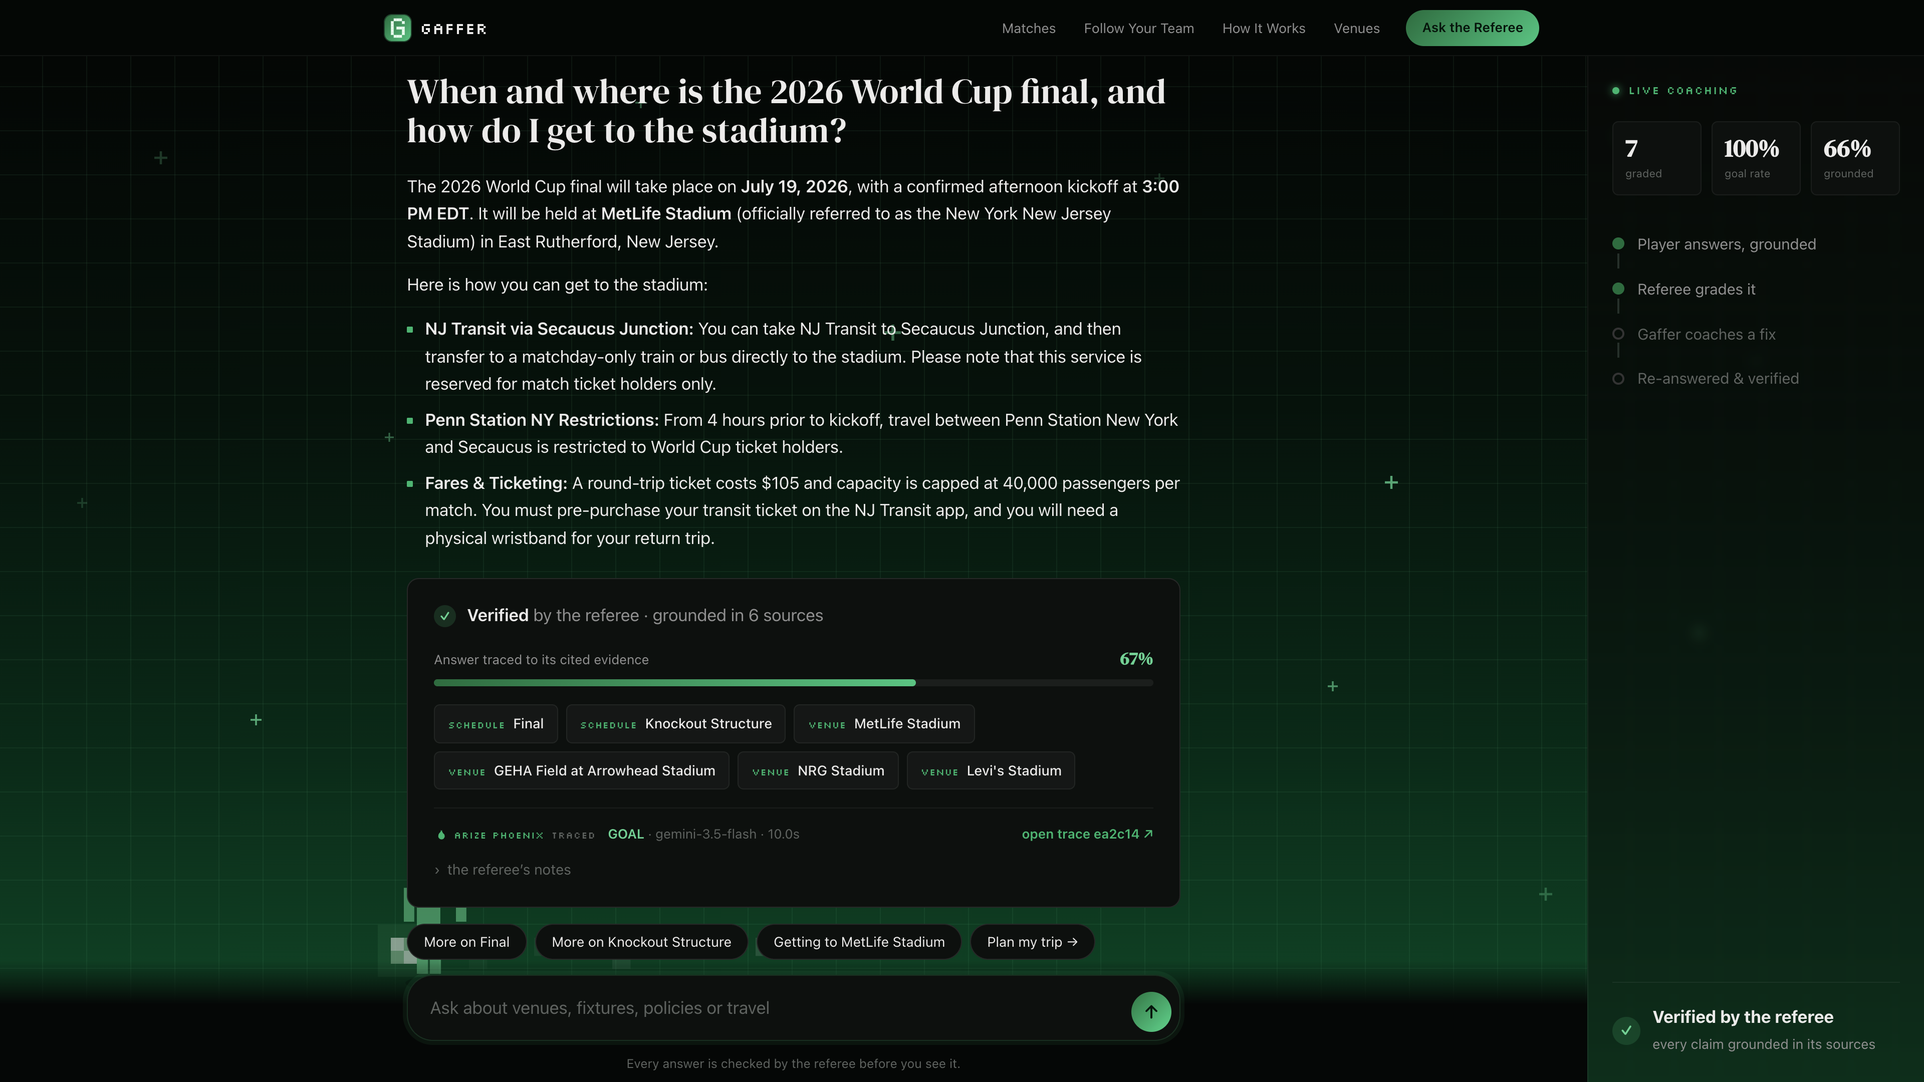
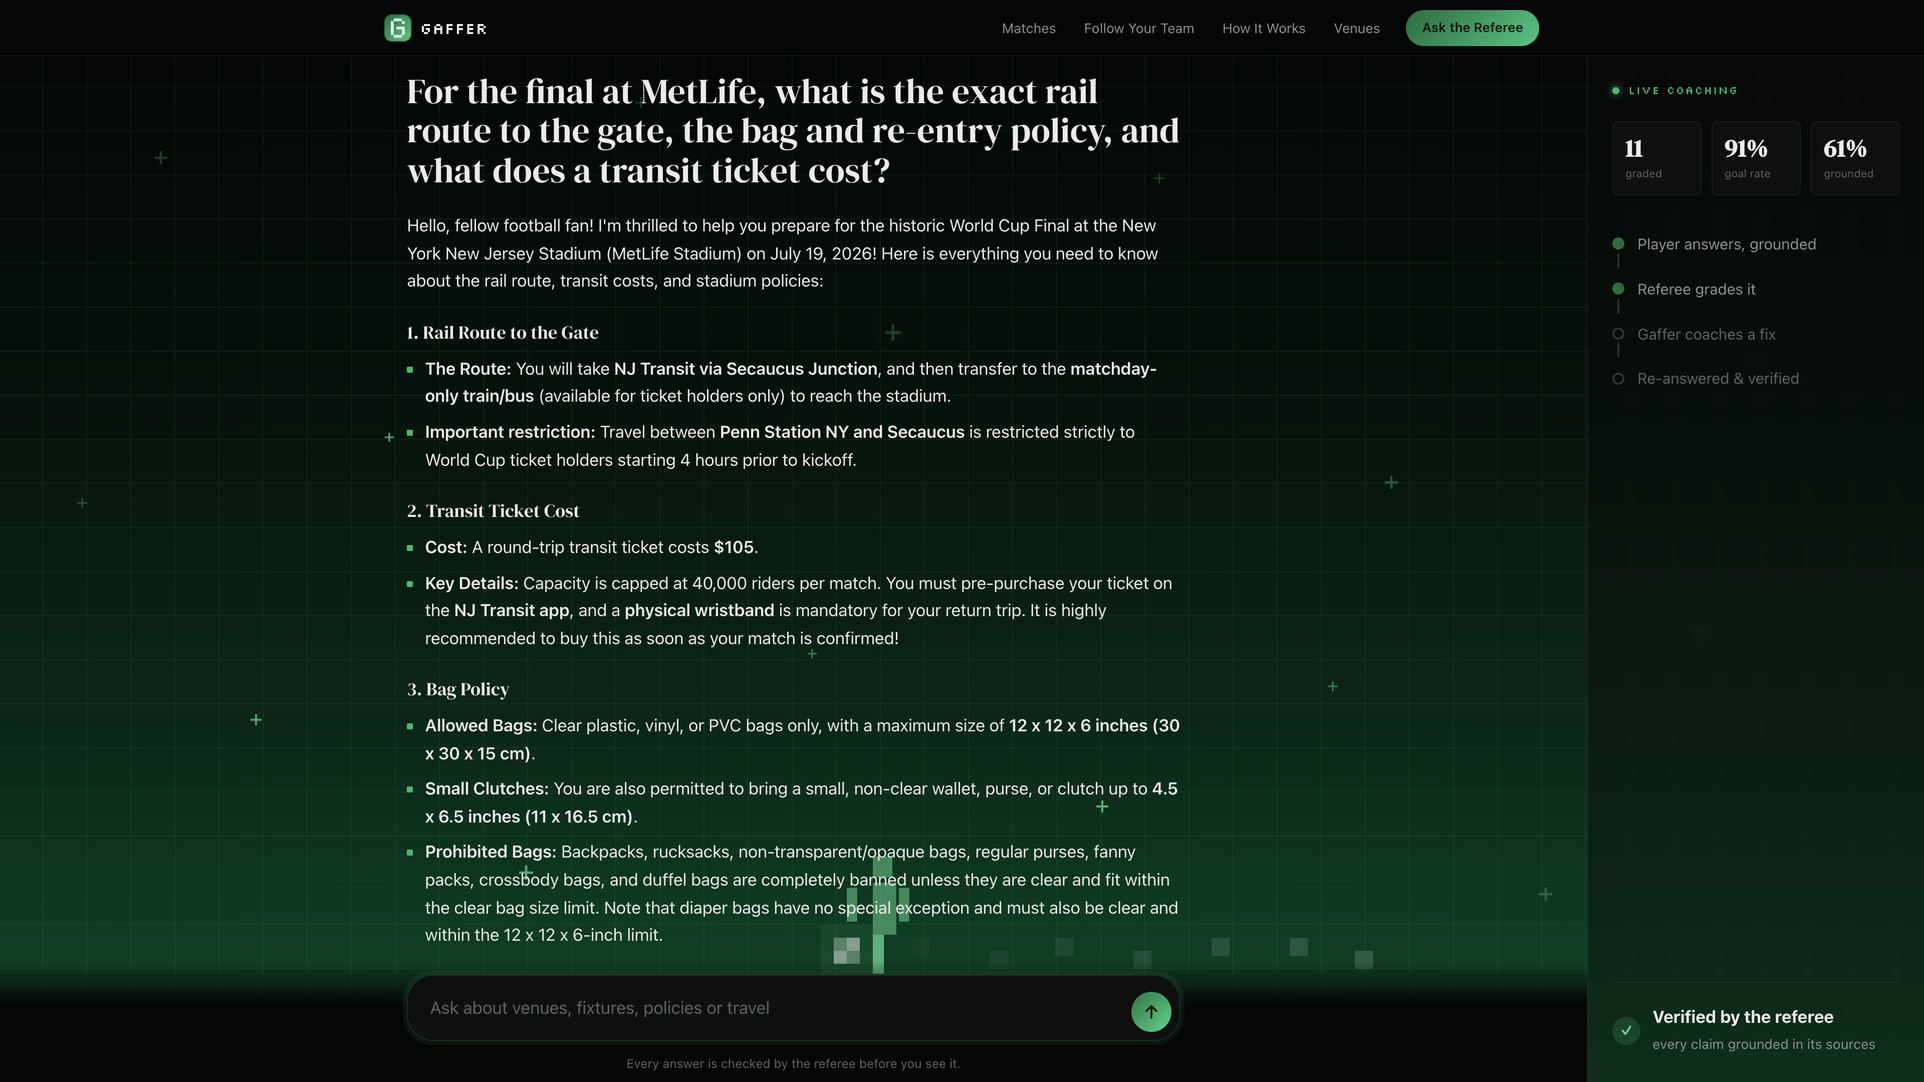
Make README sexy: hero, badges, real screenshots, sharper copy
Rewrote README around the real differentiation (grounds -> referees -> coaches
itself, live in Arize Phoenix), with a centered hero, shields badges, and the
actual captured screenshots (grounded answer, the self-coaching loop, the trip
planner). Re-captured the ask scene with a harder, operational question. Tightened
the Devpost tagline to <200 chars.

diff --git a/media/assemble.py b/media/assemble.py
@@ -1,0 +1,115 @@
+#!/usr/bin/env python3
+"""Assemble the GAFFER demo: static frames + smooth cross-dissolves (no shake),
+Polly voiceover, burned caption PNGs. Computes xfade offsets so audio + captions
+stay in sync on the dissolve timeline."""
+import os, subprocess
+FF = "/opt/homebrew/bin/ffmpeg"; FP = "/opt/homebrew/bin/ffprobe"
+ROOT = "/Users/dhruvjain/gaffer/media"
+SH, AU, BU, CA = f"{ROOT}/shots", f"{ROOT}/audio", f"{ROOT}/build", f"{ROOT}/build/caps"
+os.makedirs(BU, exist_ok=True)
+FPS = 30; PAD = 0.55; T = 0.6   # hold tail per scene, cross-dissolve length
+
+def run(args):
+    r = subprocess.run(args, capture_output=True, text=True)
+    if r.returncode != 0:
+        print("FFMPEG ERR:", " ".join(args)[:200]); print(r.stderr[-1500:]); raise SystemExit(1)
+
+# narration durations
+d = {}
+for ln in open(f"{AU}/durations.txt"):
+    i, v = ln.split(); d[int(i)] = float(v)
+
+# segment list: (still, narration-scene). scene 8 spans two stills (browse+plan).
+SEGS = [
+    ("home", 1), ("home", 2), ("ask", 3), ("trace", 4), ("loop_trace", 5),
+    ("loop_diff", 6), ("loop_scrim", 7), ("matches_browse", 8), ("matches_plan", 8),
+    ("home", 9),
+]
+# hold per segment
+hold = []
+for still, sc in SEGS:
+    if sc == 8:
+        hold.append((d[8] + PAD) / 2.0)   # split scene-8 audio across its two stills
+    else:
+        hold.append(d[sc] + PAD)
+
+# 1) build static segments (fast)
+print("building static segments...")
+for k, ((still, sc), h) in enumerate(zip(SEGS, hold), 1):
+    out = f"{BU}/seg_{k:02d}.mp4"
+    run([FF, "-y", "-loglevel", "error", "-loop", "1", "-t", f"{h:.3f}",
+         "-i", f"{SH}/{still}.png", "-r", str(FPS),
+         "-vf", "scale=1920:1080:flags=lanczos,format=yuv420p",
+         "-c:v", "libx264", "-preset", "veryfast", "-crf", "20", "-pix_fmt", "yuv420p", out])
+
+# 2) xfade chain. O[k] = start time of seg k's dissolve on the growing chain.
+O = [0.0]
+for k in range(1, len(SEGS)):
+    O.append(O[k-1] + hold[k-1] - T)
+V = O[-1] + hold[-1]
+print(f"total V = {V:.2f}s")
+
+inputs = []
+for k in range(len(SEGS)):
+    inputs += ["-i", f"{BU}/seg_{k+1:02d}.mp4"]
+fc = ""; prev = "0:v"
+for k in range(1, len(SEGS)):
+    out = f"x{k}"
+    fc += f"[{prev}][{k}:v]xfade=transition=fade:duration={T}:offset={O[k]:.3f}[{out}];"
+    prev = out
+fc += f"[{prev}]format=yuv420p[vx]"
+run([FF, "-y", "-loglevel", "error", *inputs, "-filter_complex", fc,
+     "-map", "[vx]", "-c:v", "libx264", "-preset", "veryfast", "-crf", "20",
+     "-pix_fmt", "yuv420p", f"{BU}/video_x.mp4"])
+
+# 3) per-narration start time A[sc] and caption window [cs, ce]
+A = {}; capwin = {}
+# first-seg index for each narration scene
+firstseg = {}
+for idx, (still, sc) in enumerate(SEGS):
+    if sc not in firstseg:
+        firstseg[sc] = idx
+for sc in range(1, 10):
+    fi = firstseg[sc]
+    A[sc] = O[fi] + 0.12
+    # scene end = start of next scene's first seg dissolve (or V)
+    nextfi = firstseg.get(sc + 1)
+    end = (O[nextfi] + T * 0.5) if nextfi is not None else V
+    capwin[sc] = (O[fi] + 0.06, end - 0.04)
+
+# 4) audio: silent bed of length V + each narration delayed to A[sc]
+abuild = ["-f", "lavfi", "-t", f"{V:.3f}", "-i", "anullsrc=r=48000:cl=stereo"]
+amix = "[0:a]"
+for sc in range(1, 10):
+    abuild += ["-i", f"{AU}/s{sc}.wav"]
+fc_a = ""
+for n, sc in enumerate(range(1, 10), start=1):
+    ms = int(A[sc] * 1000)
+    fc_a += f"[{n}:a]adelay={ms}|{ms}[a{n}];"
+mixins = "".join(f"[a{n}]" for n in range(1, 10))
+fc_a += f"[0:a]{mixins}amix=inputs=10:normalize=0:duration=longest[amx]"
+run([FF, "-y", "-loglevel", "error", *abuild, "-filter_complex", fc_a,
+     "-map", "[amx]", "-ar", "48000", "-ac", "2", f"{BU}/voice.wav"])
+
+# 5) overlay caption PNGs (timed) + global fades + mux + loudnorm
+inp = ["-i", f"{BU}/video_x.mp4"]
+for sc in range(1, 10):
+    inp += ["-i", f"{CA}/cap_{sc}.png"]
+inp += ["-i", f"{BU}/voice.wav"]
+fc2 = ""; prev = "0:v"
+for n, sc in enumerate(range(1, 10), start=1):
+    cs, ce = capwin[sc]
+    out = f"c{n}"
+    fc2 += f"[{prev}][{n}:v]overlay=0:0:enable='between(t,{cs:.3f},{ce:.3f})'[{out}];"
+    prev = out
+FO = V - 0.6
+fc2 += f"[{prev}]fade=t=in:st=0:d=0.5,fade=t=out:st={FO:.3f}:d=0.6,format=yuv420p[v];"
+fc2 += f"[10:a]afade=t=in:st=0:d=0.25,afade=t=out:st={FO:.3f}:d=0.6,loudnorm=I=-15:TP=-1.5:LRA=11[a]"
+run([FF, "-y", "-loglevel", "error", *inp, "-filter_complex", fc2,
+     "-map", "[v]", "-map", "[a]", "-c:v", "libx264", "-preset", "medium", "-crf", "19",
+     "-pix_fmt", "yuv420p", "-c:a", "aac", "-b:a", "192k", "-movflags", "+faststart",
+     f"{ROOT}/gaffer_demo.mp4"])
+print("DONE ->", f"{ROOT}/gaffer_demo.mp4")
+out = subprocess.run([FP, "-v", "error", "-show_entries", "format=duration",
+                      "-of", "csv=p=0", f"{ROOT}/gaffer_demo.mp4"], capture_output=True, text=True)
+print("duration:", out.stdout.strip())

diff --git a/README.md b/README.md
@@ -1,31 +1,73 @@
-# ⚽ GAFFER — the concierge that coaches itself
+<div align="center">
 
-**A World Cup 2026 fan concierge that gets measurably better while you watch — because its coach is also an agent, and its film room is Arize Phoenix.**
+<img src="media/shots/home.png" alt="GAFFER · Everything for the World Cup. Nothing made up." width="100%">
 
-![GAFFER — THE PITCH and THE FILM ROOM](docs/media/hero.png)
+# ⚽ GAFFER
 
-**Live:** https://gaffer-734868402447.us-central1.run.app
+### Everything for the World Cup. Nothing made up.
 
-Built for the Google Cloud Rapid Agent Hackathon (Arize track). Submitted on opening day of the 2026 FIFA World Cup.
+**The AI concierge that grounds every answer, referees itself, and coaches itself to be right, live in Arize Phoenix.**
 
-## The idea
+[![Live demo](https://img.shields.io/badge/▶_Live_demo-gaffer.run.app-2f6b3f?style=for-the-badge)](https://gaffer-734868402447.us-central1.run.app)
+[![Watch the demo](https://img.shields.io/badge/Watch_the_90s_demo-▶-c0392b?style=for-the-badge&logo=youtube&logoColor=white)](https://www.youtube.com/watch?v=ARjeNECEABY)
 
-Every agent ships with a flawed prompt. Most teams find out in production and patch by vibes. GAFFER closes the loop instead:
+![Google ADK](https://img.shields.io/badge/Google-ADK-34A853?logo=google&logoColor=white)
+![Gemini](https://img.shields.io/badge/Gemini-3.5_·_2.5_Flash-4285F4?logo=googlegemini&logoColor=white)
+![Arize Phoenix](https://img.shields.io/badge/Arize-Phoenix-ff5a1f?logo=arize&logoColor=white)
+![Phoenix MCP](https://img.shields.io/badge/Phoenix-MCP_16_tools-6e44ff)
+![FastAPI](https://img.shields.io/badge/FastAPI-SSE-009688?logo=fastapi&logoColor=white)
+![Cloud Run](https://img.shields.io/badge/Cloud_Run-deployed-4285F4?logo=googlecloud&logoColor=white)
+![License](https://img.shields.io/badge/License-MIT-green)
 
-- **The Player** answers real fan questions (stadiums, schedules, policies, travel) — grounded in a verified knowledge base, traced end-to-end to Phoenix via OpenInference.
-- **The Referee** (Gemini LLM-as-judge) scores every single answer live — `GOAL` or `MISS` — and files the verdict as a span annotation on the exact trace.
-- **The Gaffer** (coach agent) reviews the game tape through the **Phoenix MCP server**: pulls failed traces, names the failure patterns, drills every miss into a regression dataset (`training-ground-wc26`), rewrites the playbook, and runs a **scrimmage** — two Phoenix experiments, old prompt vs new, scored by the Referee.
-- **Promotion is gated on evidence.** Only if the candidate playbook beats production does the Gaffer move the `production` tag. The Player pulls its prompt from Phoenix's registry by tag at session start — **Phoenix is the deployment mechanism**, not a dashboard.
+</div>
 
-No human in the loop. No redeploy. The next fan question runs on the improved playbook, and the regression dataset guarantees old failures stay fixed.
+> Built for the **Google Cloud Rapid Agent Hackathon · Arize track.** A FIFA World Cup 2026 fan concierge that gets measurably better while you watch, because its coach is also an agent and its film room is Arize Phoenix.
+
+---
+
+## The problem
+
+Any chatbot can tell you who is playing. Ask the questions that actually decide a World Cup trip, though, and it falls apart: *Can I get this bag through security? Which exact train reaches the gate? What ID do I need at the border?* A normal AI answers those instantly, fluently, and often wrong, and you only find out at the turnstile. Confidently wrong is the worst failure mode there is, because nobody double-checks an answer that sounds sure of itself.
+
+**GAFFER is built for exactly those questions, and it refuses to bluff.**
+
+<div align="center">
+<img src="media/shots/ask.png" alt="A grounded, sourced answer" width="88%">
+<br><em>A messy, multi-part question answered from verified records: exact rail route, the 4-hour Penn Station restriction, the $105 fare capped at 40,000 riders, the bag dimensions. Every fact carries its source.</em>
+</div>
+
+---
+
+## How it works: the loop
+
+GAFFER is two agents and a referee, wired into a closed self-improvement loop. The football framing is the architecture.
+
+**🥅 The Player** answers fan questions (stadiums, schedules, policies, travel), grounded in a verified knowledge base and traced end to end to Phoenix via OpenInference. Its tools return an explicit `NOT_FOUND` when a fact is not in the corpus, which is what lets the system tell *grounded* from *guessed*.
+
+**🟨 The Referee** is a Gemini LLM-as-judge that scores every single answer the moment it lands, `GOAL` or `MISS`, and files the verdict as a span annotation on that exact trace. Only concrete facts must be supported; honest hedging and labelled guidance pass.
+
+**📋 The Gaffer** is the coach. It reviews the game tape through the **Phoenix MCP server**: pulls failed traces, names the failure patterns, drills every miss into a regression dataset (`training-ground-wc26`), rewrites the playbook, and runs a **scrimmage**, two Phoenix experiments, old prompt vs new, scored by the Referee.
+
+**🏆 Promotion is gated on evidence.** The candidate playbook ships only if it beats production. The Player loads its prompt from the Phoenix registry by tag at session start, so **Phoenix is the deployment mechanism, not a dashboard.** No human in the loop. No redeploy. The next question runs on the improved playbook.
+
+<div align="center">
+
+| It grades itself | It rewrites itself | Only a winner ships |
+|:---:|:---:|:---:|
+| <img src="media/shots/loop_trace.png" width="100%"> | <img src="media/shots/loop_diff.png" width="100%"> | <img src="media/shots/loop_scrim.png" width="100%"> |
+| Referee scores every answer, traced in Phoenix | The coach edits its own prompt over Phoenix MCP | Paired experiments promote only on a proven win |
+
+</div>
+
+---
 
 ## Architecture
 
 ```
                          ┌────────────────────────────────────────────┐
-                         │              ARIZE PHOENIX                 │
-   OpenInference traces  │  traces · annotations · prompt registry    │
-      ┌─────────────────▶│  datasets · experiments                    │
+                         │              ARIZE PHOENIX                  │
+   OpenInference traces  │  traces · annotations · prompt registry     │
+      ┌─────────────────▶│  datasets · experiments                     │
       │                  └───────┬───────────────────▲────────────────┘
       │                          │ prompt by tag      │ MCP (16 tools)
       │                          ▼ "production"       │
@@ -35,23 +77,41 @@ No human in the loop. No redeploy. The next fan question runs on the improved pl
 └────────────┘   answers   │ Gemini   │         │  Gemini    │
       ▲                    └────┬─────┘         └─────┬──────┘
       │ GOAL/MISS verdict       │ every answer        │ run_scrimmage()
-┌─────┴──────┐                  ▼                     ▼
-│  REFEREE   │◀────────  span annotation     Phoenix experiments:
-│ LLM-as-judge│                              current vs candidate
-└────────────┘                               → promote only if better
+┌─────┴───────┐                 ▼                     ▼
+│   REFEREE   │◀────────  span annotation     Phoenix experiments:
+│ LLM-as-judge│                               current vs candidate
+└─────────────┘                               → promote only if better
 ```
 
-**Stack:** Google ADK (Agent Development Kit) · Gemini 3.5 Flash on Vertex AI · Arize Phoenix Cloud (tracing via `arize-phoenix-otel` + OpenInference, prompt registry, datasets, experiments) · official `@arizeai/phoenix-mcp` server (stdio) · FastAPI + SSE · Cloud Run.
+The Arize loop, proven on the live workspace: in one coaching session the scrimmage scored the old playbook **0.38** and the coached one **0.60** over the regression set, a **58% relative lift**. Questions that scored `MISS 0.00` in the morning (stadium rail access, Houston weather, power-bank rules) score `GOAL 1.00` now. The registry holds **13 playbook versions**, and every `production` tag was moved by the Gaffer itself after a winning experiment.
 
-## The knowledge base
+---
 
-`data/*.json` — 16 venues, all 48 teams and groups, opening-week fixtures, FIFA fan policies (bag rules, re-entry, ticketing, visas), fan festivals, weather and transit. Researched and verified from primary sources on 2026-06-11; every source cited in [`data/sources.md`](data/sources.md). The corpus doubles as eval ground truth: the tools return an explicit `NOT_FOUND` so the Referee can tell *grounded* from *guessed*.
+## The trip planner
+
+Beyond chat, GAFFER plans a whole trip. Add the matches you want to catch and it builds one grounded itinerary, venue, transit to the gate, fan festival, and weather per fixture, with anything uncertain clearly flagged. Then hand it to the Referee to stress-test, live.
+
+<div align="center">
+<img src="media/shots/matches_plan.png" alt="A grounded multi-city trip plan" width="88%">
+</div>
+
+---
+
+## Stack
+
+| Layer | What |
+|---|---|
+| **Agents** | Google ADK · Gemini 3.5 Flash (Player) + Gemini 2.5 Flash (Referee) on Vertex AI |
+| **Observability + control loop** | Arize Phoenix Cloud: `arize-phoenix-otel` + OpenInference tracing, span annotations, prompt registry, datasets, experiments |
+| **Coach's hands** | official `@arizeai/phoenix-mcp` server (stdio, 16 tools) via ADK `McpToolset` |
+| **Serving** | FastAPI + Server-Sent Events · single-container Cloud Run (Python agents + Node for the MCP server) |
+| **Knowledge base** | 16 venues, all 48 teams and groups, opening-week fixtures, FIFA fan policies, festivals, weather, transit. Verified from primary sources, every source cited in [`data/sources.md`](data/sources.md) |
+
+---
 
 ## Run it
 
-Prerequisites: Python 3.11+ with [uv](https://docs.astral.sh/uv/), **Node.js 18+** (the Gaffer
-spawns the Phoenix MCP server via `npx`), a GCP project with Vertex AI enabled
-(`gcloud auth application-default login`), and a free [Phoenix Cloud](https://app.phoenix.arize.com) account.
+Prerequisites: Python 3.11+ with [uv](https://docs.astral.sh/uv/), **Node.js 18+** (the Gaffer spawns the Phoenix MCP server via `npx`), a GCP project with Vertex AI enabled (`gcloud auth application-default login`), and a free [Phoenix Cloud](https://app.phoenix.arize.com) account.
 
 ```bash
 uv sync
@@ -60,44 +120,32 @@ uv run python -m scripts.seed_playbook   # playbook v1 → Phoenix, tagged "prod
 make dev                   # http://localhost:8080
 ```
 
-> Note: `openai`/`anthropic` appear in `uv.lock` only as unused transitive dependencies of
-> `arize-phoenix` itself. The runtime calls Google models exclusively (Gemini on Vertex AI).
+Ask questions on **THE PITCH**. Watch verdicts land. Then hit **▸ COACHING SESSION** and watch the Gaffer work the film room, every Phoenix MCP call streaming live. Deploy with `make deploy`.
 
-Ask questions on **THE PITCH**. Watch verdicts land. Then hit **▸ COACHING SESSION** and watch the Gaffer work the film room — every Phoenix MCP call streams live.
-
-Deploy: `make deploy` (Cloud Run, single container: Python agents + Node for the MCP server).
-
-## For judges: the two-minute live tour
-
-The deployed playbook has already been coached, so most questions score GOAL. To watch the
-full loop fire live:
-
-1. Open the [live app](https://gaffer-734868402447.us-central1.run.app) and try to beat the
-   Player: ask about something outside its knowledge base ("What accessibility services do the
-   stadiums offer?") or smuggle in a wrong premise ("What time does the Netherlands vs Japan
-   opening match start?"). If the Referee files a red MISS, you have coaching material. If
-   everything scores GOAL, that is the coached playbook holding up; the
-   [demo video](https://www.youtube.com/watch?v=ARjeNECEABY) shows the full failure arc from
-   the rookie playbook.
-2. Click **▸ COACHING SESSION**. A full session runs three to six minutes: the Gaffer pulls
-   the tape over Phoenix MCP, drills your miss into `training-ground-wc26`, rewrites the
-   playbook, scrimmages old against new (two Phoenix experiments, judge scored), and promotes
-   only on a win. The promotion banner is the payoff.
-3. Re-ask your question. The playbook chip in the header shows the new version, served from
-   the Phoenix prompt registry by tag. No redeploy happened.
-
-The [demo video](https://www.youtube.com/watch?v=ARjeNECEABY) shows the same arc in 2:24 if
-you prefer to watch one we ran on opening day.
-
-## Why this matters beyond football
-
-Swap the corpus and the Player becomes any customer-facing agent. The loop — *trace → judge → drill → rewrite → experiment → gated promotion* — is how production agents should ship prompt changes: like code, through CI. We just made the CI an agent too.
-
-## License
-
-MIT
+> `openai`/`anthropic` appear in `uv.lock` only as unused transitive dependencies of `arize-phoenix`. The runtime calls Google models exclusively (Gemini on Vertex AI).
 
 ---
 
-*Fan-made demo for the Google Cloud Rapid Agent Hackathon. Not affiliated with, sponsored or
-endorsed by FIFA. World Cup data compiled from public sources cited in `data/sources.md`.*
+## For judges: the two-minute tour
+
+The deployed playbook has already been coached, so most questions score `GOAL`. To watch the full loop fire live:
+
+1. Open the [**live app**](https://gaffer-734868402447.us-central1.run.app) and try to beat the Player. Ask something operational and specific, or smuggle in a wrong premise (*"What time does the Netherlands vs Japan opening match start?"*). If the Referee files a red `MISS`, you have coaching material.
+2. Click **▸ COACHING SESSION**. The Gaffer pulls the tape over Phoenix MCP, drills your miss into `training-ground-wc26`, rewrites the playbook, scrimmages old against new (two Phoenix experiments, judge scored), and promotes only on a win. The promotion banner is the payoff.
+3. Re-ask your question. The playbook chip in the header shows the new version, served from the Phoenix registry by tag. **No redeploy happened.**
+
+---
+
+## Why this matters beyond football
+
+Swap the corpus and the Player becomes any customer-facing agent. The loop, *trace → judge → drill → rewrite → experiment → gated promotion*, is how production agents should ship prompt changes: like code, through CI. We just made the CI an agent too.
+
+---
+
+<div align="center">
+
+**[⚽ Try GAFFER](https://gaffer-734868402447.us-central1.run.app)** · MIT licensed
+
+<sub>Fan-made for the Google Cloud Rapid Agent Hackathon. Not affiliated with, sponsored, or endorsed by FIFA. World Cup data compiled from public sources cited in <a href="data/sources.md"><code>data/sources.md</code></a>.</sub>
+
+</div>

diff --git a/docs/devpost.md b/docs/devpost.md
@@ -2,7 +2,7 @@
 
 **Title:** GAFFER, the World Cup concierge that referees itself
 
-**Tagline:** Everything for the World Cup. Nothing made up. A fan concierge whose coach is also an agent: every miss becomes a drill, every drill tests the next playbook, and nothing ships unless it beats the old one.
+**Tagline:** Everything for the World Cup. Nothing made up. The AI concierge that grounds every answer, referees itself, and coaches itself to be right, live in Arize Phoenix.
 
 **Track:** Arize
 **Live demo:** https://gaffer-734868402447.us-central1.run.app
